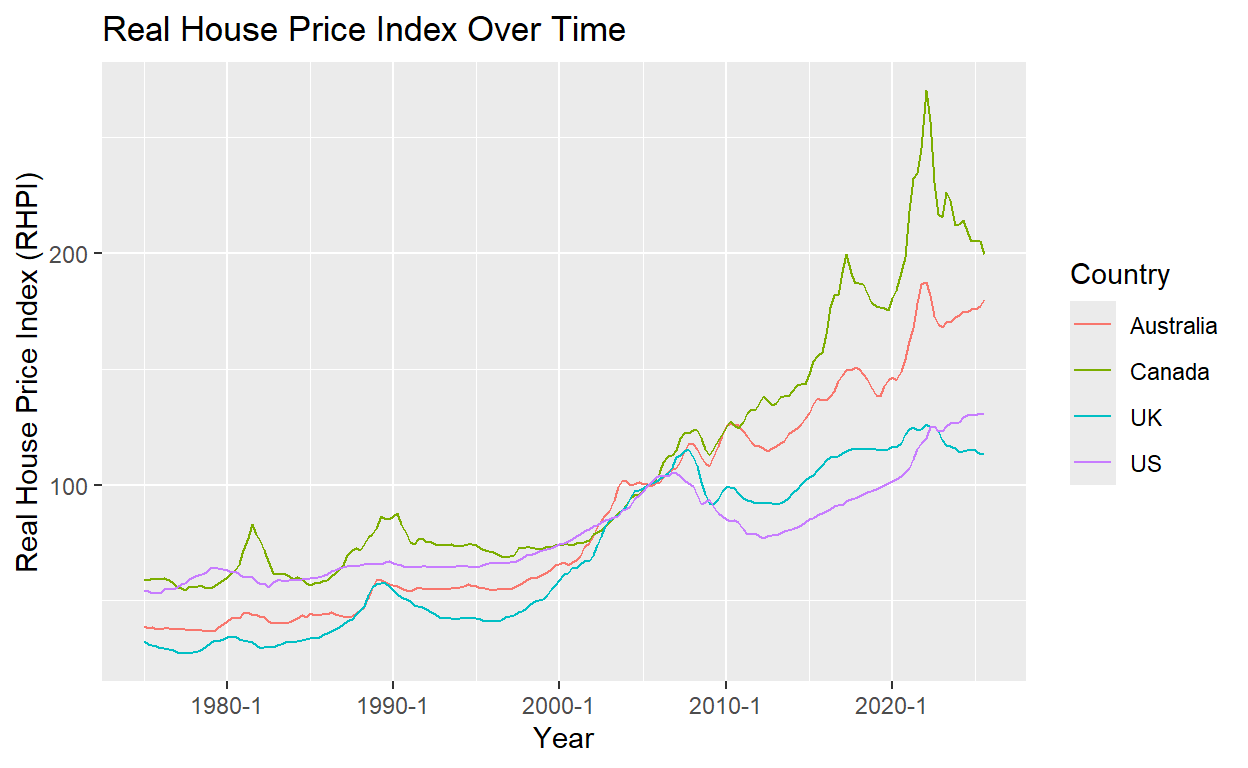
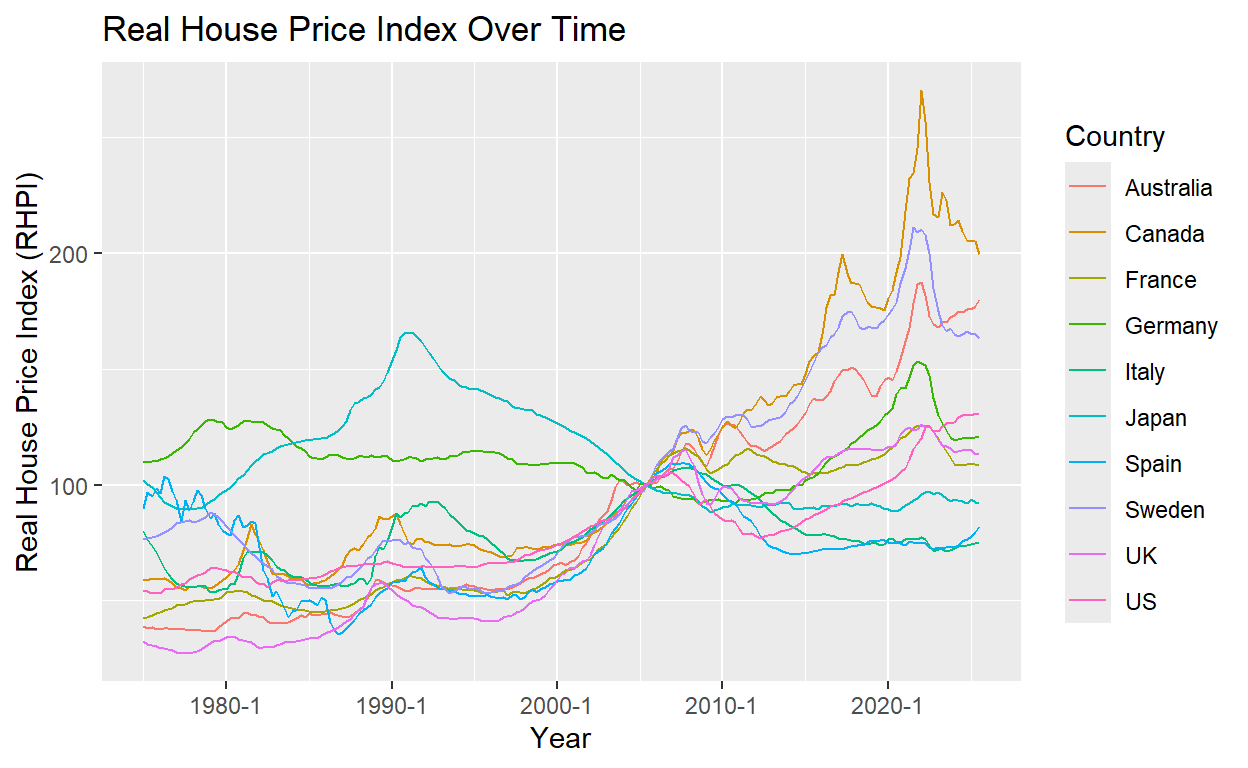
milestone 4

diff --git a/index.html b/index.html
@@ -116,7 +116,7 @@ code span.wa { color: #5e5e5e; font-style: italic; } /* Warning */
   <!--/radix_placeholder_rmarkdown_metadata-->
   
   <script type="text/json" id="radix-resource-manifest">
-  {"type":"character","attributes":{},"value":["data/G-SWA.xlsx","data/hp2503.xlsx","index_files/anchor-4.2.2/anchor.min.js","index_files/bowser-1.9.3/bowser.min.js","index_files/distill-2.2.21/template.v2.js","index_files/figure-html5/unnamed-chunk-6-1.png","index_files/header-attrs-2.17/header-attrs.js","index_files/header-attrs-2.30/header-attrs.js","index_files/jquery-3.6.0/jquery-3.6.0.js","index_files/jquery-3.6.0/jquery-3.6.0.min.js","index_files/jquery-3.6.0/jquery-3.6.0.min.map","index_files/popper-2.6.0/popper.min.js","index_files/tippy-6.2.7/tippy-bundle.umd.min.js","index_files/tippy-6.2.7/tippy-light-border.css","index_files/tippy-6.2.7/tippy.css","index_files/tippy-6.2.7/tippy.umd.min.js","index_files/webcomponents-2.0.0/webcomponents.js"]}
+  {"type":"character","attributes":{},"value":["data/G-SWA.xlsx","data/hp2503.xlsx","index_files/anchor-4.2.2/anchor.min.js","index_files/bowser-1.9.3/bowser.min.js","index_files/distill-2.2.21/template.v2.js","index_files/figure-html5/unnamed-chunk-13-1.png","index_files/figure-html5/unnamed-chunk-6-1.png","index_files/header-attrs-2.17/header-attrs.js","index_files/header-attrs-2.30/header-attrs.js","index_files/jquery-3.6.0/jquery-3.6.0.js","index_files/jquery-3.6.0/jquery-3.6.0.min.js","index_files/jquery-3.6.0/jquery-3.6.0.min.map","index_files/popper-2.6.0/popper.min.js","index_files/tippy-6.2.7/tippy-bundle.umd.min.js","index_files/tippy-6.2.7/tippy-light-border.css","index_files/tippy-6.2.7/tippy.css","index_files/tippy-6.2.7/tippy.umd.min.js","index_files/webcomponents-2.0.0/webcomponents.js"]}
   </script>
   <!--radix_placeholder_navigation_in_header-->
   <!--/radix_placeholder_navigation_in_header-->
@@ -1557,7 +1557,6 @@ code span.wa { color: #5e5e5e; font-style: italic; } /* Warning */
 <pre class="sourceCode r"><code class="sourceCode r"><span><span class='va'>rhpi</span> <span class='op'>&lt;-</span> <span class='fu'><a href='https://readxl.tidyverse.org/reference/read_excel.html'>read_excel</a></span><span class='op'>(</span><span class='st'>"data/hp2503.xlsx"</span>, sheet <span class='op'>=</span> <span class='st'>"RHPI"</span><span class='op'>)</span></span></code></pre>
 </div>
 </div>
-<p>Here I deleted the first row of the data set, as it is an empty row in the excel file, as well as with the blank 28th column. I also renamed the 1st column to “Date”.</p>
 <div class="layout-chunk" data-layout="l-body">
 <div class="sourceCode">
 <pre class="sourceCode r"><code class="sourceCode r"><span><span class='va'>rhpi</span> <span class='op'>&lt;-</span> <span class='va'>rhpi</span><span class='op'>[</span><span class='op'>-</span><span class='fl'>1</span>, <span class='op'>]</span></span>
@@ -1582,8 +1581,8 @@ code span.wa { color: #5e5e5e; font-style: italic; } /* Warning */
 #   Portugal &lt;dbl&gt;, `Aggregate - 2005 Fixed Weights` &lt;chr&gt;,
 #   `Aggregate - Dynamic Weights` &lt;chr&gt;</code></pre>
 </div>
-<p>The date format of this data is usual, and comes in the format of 1975:Q1, 1975:Q2. I saw a package online called “ihpdr” that already did the cleaning of the data, which I think would defeat the purpose of this project, but I noticed that the dates were changed to 1975-01-01, 1975-04-01, etc.</p>
-<p>After prompting AI, it recommended me to use the package “zoo” to work with the unusual time format for myself. The following code is written with the help of AI as I am unfamiliar how to work with zoo or clean data very well. It was also recommended to reshape the data longer (rather than wider as we have done in class)</p>
+<p>Here I deleted the first row of the data set, as it is an empty row in the excel file, as well as with the blank 28th column. I also renamed the 1st column to “Date”.</p>
+<h2 id="changing-the-date-format-of-real-housing-data">Changing the Date Format of Real Housing Data</h2>
 <div class="layout-chunk" data-layout="l-body">
 <div class="sourceCode">
 <pre class="sourceCode r"><code class="sourceCode r"><span><span class='va'>rhpi</span><span class='op'>$</span><span class='va'>Date</span> <span class='op'>&lt;-</span> <span class='fu'><a href='https://rdrr.io/pkg/zoo/man/yearqtr.html'>as.yearqtr</a></span><span class='op'>(</span><span class='va'>rhpi</span><span class='op'>$</span><span class='va'>Date</span>, format <span class='op'>=</span> <span class='st'>"%Y:Q%q"</span><span class='op'>)</span></span>
@@ -1613,7 +1612,7 @@ code span.wa { color: #5e5e5e; font-style: italic; } /* Warning */
 <div class="layout-chunk" data-layout="l-body">
 <div class="sourceCode">
 <pre class="sourceCode r"><code class="sourceCode r"><span><span class='va'>rhpi_longer</span> <span class='op'>&lt;-</span> <span class='va'>rhpi</span> <span class='op'>|&gt;</span></span>
-<span>  <span class='fu'><a href='https://dplyr.tidyverse.org/reference/select.html'>select</a></span><span class='op'>(</span><span class='va'>Date</span>, <span class='va'>US</span>, <span class='va'>UK</span>, <span class='va'>Canada</span>, <span class='va'>Australia</span><span class='op'>)</span> <span class='op'>|&gt;</span> <span class='co'># this can be more countries or all later, but for this milestone, we will just use 4.</span></span>
+<span>  <span class='fu'><a href='https://dplyr.tidyverse.org/reference/select.html'>select</a></span><span class='op'>(</span><span class='va'>Date</span>, <span class='va'>US</span>, <span class='va'>UK</span>, <span class='va'>Australia</span>, <span class='va'>France</span>, <span class='va'>Germany</span>, <span class='va'>Japan</span>, <span class='va'>Italy</span>, <span class='va'>Sweden</span>, <span class='va'>Spain</span>, <span class='va'>Canada</span><span class='op'>)</span> <span class='op'>|&gt;</span> </span>
 <span>  <span class='fu'><a href='https://tidyr.tidyverse.org/reference/pivot_longer.html'>pivot_longer</a></span><span class='op'>(</span></span>
 <span>    cols <span class='op'>=</span> <span class='op'>-</span><span class='va'>Date</span>,</span>
 <span>    names_to <span class='op'>=</span> <span class='st'>"Country"</span>,</span>
@@ -1627,11 +1626,13 @@ code span.wa { color: #5e5e5e; font-style: italic; } /* Warning */
   &lt;yearqtr&gt; &lt;chr&gt;     &lt;dbl&gt;
 1 1975 Q1   US         54.0
 2 1975 Q1   UK         32.2
-3 1975 Q1   Canada     59.2
-4 1975 Q1   Australia  38.8
-5 1975 Q2   US         54.0
-6 1975 Q2   UK         31.2</code></pre>
+3 1975 Q1   Australia  38.8
+4 1975 Q1   France     42.5
+5 1975 Q1   Germany   110. 
+6 1975 Q1   Japan     102. </code></pre>
 </div>
+<p>The date format of this data is usual, and comes in the format of 1975:Q1, 1975:Q2. I saw a package online called “ihpdr” that already did the cleaning of the data, which I think would defeat the purpose of this project, but I noticed that the dates were changed to 1975-01-01, 1975-04-01, etc.</p>
+<p>After prompting AI, it recommended me to use the package “zoo” to work with the unusual time format for myself. The following code is written with the help of AI as I am unfamiliar how to work with zoo or clean data very well. It was also recommended to reshape the data longer (rather than wider as we have done in class)</p>
 <h2 id="data-visualization">Data Visualization</h2>
 <div class="layout-chunk" data-layout="l-body">
 <div class="sourceCode">
@@ -1649,31 +1650,122 @@ code span.wa { color: #5e5e5e; font-style: italic; } /* Warning */
 <p>The real house price index is “seasonally adjusted and re-based” so the year 2005 equals 100 (from the Fed’s Methodological Note). That means all countries being scaled to this reference point allows us to compare how house prices have changed over time across countries. As a result, the lines in the graph move relative to increases/decreases from the base value rather than representing raw price values.</p>
 <p>The graph shows that Canada has seemingly had the greatest increase in real house prices since 2005, and in Milestone 4, I would hope to use working from home data to see any associations between real housing prices and the rate of working from home. My hypothesis is that Canada would have the highest rate compared to the US or the UK, as they have lower real home prices.</p>
 <h2 id="load-work-from-home-data">Load Work From Home Data</h2>
+<p>Source: Aksoy, Cevat Giray, Jose Maria Barrero, Nicholas Bloom, Steven J. Davis, Mathias Dolls and Pablo Zarate, 2022. “Working from Home Around the World,” Brookings Papers on Economic Activity.</p>
 <div class="layout-chunk" data-layout="l-body">
 <div class="sourceCode">
-<pre class="sourceCode r"><code class="sourceCode r"><span><span class='va'>wfh</span> <span class='op'>&lt;-</span> <span class='fu'><a href='https://readxl.tidyverse.org/reference/read_excel.html'>read_excel</a></span><span class='op'>(</span><span class='st'>"data/G-SWA.xlsx"</span><span class='op'>)</span></span>
-<span><span class='fu'><a href='https://rdrr.io/r/utils/head.html'>head</a></span><span class='op'>(</span><span class='va'>wfh</span><span class='op'>)</span></span></code></pre>
+<pre class="sourceCode r"><code class="sourceCode r"><span><span class='va'>wfh</span> <span class='op'>&lt;-</span> <span class='fu'><a href='https://readxl.tidyverse.org/reference/read_excel.html'>read_excel</a></span><span class='op'>(</span><span class='st'>"data/G-SWA.xlsx"</span><span class='op'>)</span></span></code></pre>
 </div>
-<pre><code># A tibble: 6 × 34
-  idnum original_country  wave country     originalcountry regionname
-  &lt;dbl&gt; &lt;chr&gt;            &lt;dbl&gt; &lt;chr&gt;                 &lt;dbl&gt; &lt;chr&gt;     
-1     1 Australia            1 Australia 1              27 Victoria  
-2     2 Australia            1 Australia 1              27 Queensland
-3     3 Australia            1 Australia 1              27 Victoria  
-4     4 Australia            1 Australia 1              27 Victoria  
-5     5 Australia            1 Australia 1              27 Victoria  
-6     6 Australia            1 Australia 1              27 Queensland
-# ℹ 28 more variables: gender &lt;chr&gt;, agegroups &lt;chr&gt;,
-#   education &lt;chr&gt;, industry_job &lt;chr&gt;, age &lt;dbl&gt;, tertiary &lt;dbl&gt;,
-#   graduate &lt;dbl&gt;, married &lt;dbl&gt;, male &lt;dbl&gt;, with_kids &lt;dbl&gt;,
-#   male_with_kids &lt;dbl&gt;, n_work_home &lt;dbl&gt;,
-#   daysemployer_work_home &lt;dbl&gt;, daysemployee_work_home &lt;dbl&gt;,
-#   value_WFH_rawpercent25 &lt;dbl&gt;, commuting_time &lt;dbl&gt;,
-#   WFH_expectations1 &lt;dbl&gt;, WFHperceptions &lt;dbl&gt;, …</code></pre>
 </div>
-<p>This data set has 36k obs. so it will take me a bit to figure out how to use it and filter it the best, but that is for future me! They also seem pretty adamant about citing the source of the data which will be provided here:</p>
-<p>Source: Aksoy, Cevat Giray, Jose Maria Barrero, Nicholas Bloom, Steven J. Davis, Mathias Dolls and Pablo Zarate, 2022. “Working from Home Around the World,” Brookings Papers on Economic Activity.</p>
-<div class="sourceCode" id="cb5"><pre class="sourceCode r distill-force-highlighting-css"><code class="sourceCode r"></code></pre></div>
+<h2 id="adding-year-to-working-from-home-data">Adding Year to Working From Home Data</h2>
+<div class="layout-chunk" data-layout="l-body">
+<div class="sourceCode">
+<pre class="sourceCode r"><code class="sourceCode r"><span><span class='va'>wfh</span> <span class='op'>&lt;-</span> <span class='va'>wfh</span> <span class='op'>|&gt;</span></span>
+<span>  <span class='fu'><a href='https://dplyr.tidyverse.org/reference/mutate.html'>mutate</a></span><span class='op'>(</span>year <span class='op'>=</span> <span class='fu'><a href='https://dplyr.tidyverse.org/reference/case_when.html'>case_when</a></span><span class='op'>(</span></span>
+<span>    <span class='va'>wave</span> <span class='op'>==</span> <span class='fl'>1</span> <span class='op'>~</span> <span class='fl'>2021</span>,</span>
+<span>    <span class='va'>wave</span> <span class='op'>==</span> <span class='fl'>2</span> <span class='op'>~</span> <span class='fl'>2022</span></span>
+<span>  <span class='op'>)</span><span class='op'>)</span></span>
+<span></span>
+<span><span class='fu'><a href='https://rdrr.io/r/base/unique.html'>unique</a></span><span class='op'>(</span><span class='va'>wfh</span><span class='op'>$</span><span class='va'>country</span><span class='op'>)</span></span></code></pre>
+</div>
+<pre><code> [1] &quot;Australia 1&quot;   &quot;Australia 2&quot;   &quot;Austria 2&quot;     &quot;Brazil 2&quot;     
+ [5] &quot;Canada 2&quot;      &quot;China 1&quot;       &quot;China 2&quot;       &quot;Egypt 1&quot;      
+ [9] &quot;France 1&quot;      &quot;France 2&quot;      &quot;Germany 1&quot;     &quot;Germany 2&quot;    
+[13] &quot;Greece 1&quot;      &quot;Greece 2&quot;      &quot;Hungary 1&quot;     &quot;Hungary 2&quot;    
+[17] &quot;India 2&quot;       &quot;Italy 2&quot;       &quot;Japan 2&quot;       &quot;Korea 2&quot;      
+[21] &quot;Malaysia 2&quot;    &quot;Netherlands 1&quot; &quot;Netherlands 2&quot; &quot;Poland 1&quot;     
+[25] &quot;Poland 2&quot;      &quot;Russia 2&quot;      &quot;Serbia 1&quot;      &quot;Singapore 2&quot;  
+[29] &quot;Spain 2&quot;       &quot;Sweden 1&quot;      &quot;Sweden 2&quot;      &quot;Taiwan 2&quot;     
+[33] &quot;Turkey 1&quot;      &quot;Turkey 2&quot;      &quot;UK 1&quot;          &quot;UK 2&quot;         
+[37] &quot;USA 1&quot;         &quot;USA 2&quot;         &quot;Ukraine 1&quot;     &quot;Ukraine 2&quot;    </code></pre>
+</div>
+<h2 id="filtering-countries-down-matching-names">Filtering Countries Down &amp; Matching Names</h2>
+<div class="layout-chunk" data-layout="l-body">
+<div class="sourceCode">
+<pre class="sourceCode r"><code class="sourceCode r"><span><span class='va'>wfh_countries</span> <span class='op'>&lt;-</span> <span class='va'>wfh</span> <span class='op'>|&gt;</span></span>
+<span>  <span class='fu'><a href='https://dplyr.tidyverse.org/reference/filter.html'>filter</a></span><span class='op'>(</span><span class='va'>original_country</span> <span class='op'><a href='https://rdrr.io/r/base/match.html'>%in%</a></span> <span class='fu'><a href='https://rdrr.io/r/base/c.html'>c</a></span><span class='op'>(</span><span class='st'>"Australia"</span>, <span class='st'>"France"</span>, <span class='st'>"Germany"</span>, <span class='st'>"USA"</span>, <span class='st'>"UK"</span>, <span class='st'>"Japan"</span>, <span class='st'>"Italy"</span>, <span class='st'>"Sweden"</span>, <span class='st'>"Spain"</span>, <span class='st'>"Canada"</span><span class='op'>)</span><span class='op'>)</span></span>
+<span></span>
+<span><span class='va'>wfh_countries</span> <span class='op'>&lt;-</span> <span class='va'>wfh_countries</span> <span class='op'>|&gt;</span></span>
+<span>  <span class='fu'><a href='https://dplyr.tidyverse.org/reference/mutate.html'>mutate</a></span><span class='op'>(</span>original_country <span class='op'>=</span> <span class='fu'><a href='https://dplyr.tidyverse.org/reference/case_when.html'>case_when</a></span><span class='op'>(</span></span>
+<span>    <span class='va'>original_country</span> <span class='op'>==</span> <span class='st'>"USA"</span> <span class='op'>~</span> <span class='st'>"US"</span>,</span>
+<span>    <span class='cn'>TRUE</span> <span class='op'>~</span> <span class='va'>original_country</span>                         <span class='co'>## This line will keep all the rest the same</span></span>
+<span>  <span class='op'>)</span><span class='op'>)</span></span></code></pre>
+</div>
+</div>
+<h2 id="average-days-working-from-home-by-year">Average Days Working From Home by Year</h2>
+<div class="layout-chunk" data-layout="l-body">
+<div class="sourceCode">
+<pre class="sourceCode r"><code class="sourceCode r"><span><span class='va'>wfh_countries_mean</span> <span class='op'>&lt;-</span> <span class='va'>wfh_countries</span> <span class='op'>|&gt;</span></span>
+<span>  <span class='fu'><a href='https://dplyr.tidyverse.org/reference/group_by.html'>group_by</a></span><span class='op'>(</span><span class='va'>original_country</span>, <span class='va'>year</span><span class='op'>)</span> <span class='op'>|&gt;</span></span>
+<span>  <span class='fu'><a href='https://dplyr.tidyverse.org/reference/summarise.html'>summarize</a></span><span class='op'>(</span></span>
+<span>    wfh_mean <span class='op'>=</span> <span class='fu'><a href='https://rdrr.io/r/base/mean.html'>mean</a></span><span class='op'>(</span><span class='va'>n_work_home</span>, na.rm <span class='op'>=</span> <span class='cn'>T</span><span class='op'>)</span>,</span>
+<span>   .groups <span class='op'>=</span> <span class='st'>"drop"</span> <span class='co'>## Tibble is still grouped by original_country otherwise </span></span>
+<span>   <span class='op'>)</span></span></code></pre>
+</div>
+</div>
+<h2 id="creating-a-yearly-real-housing-price-to-compare-with-wfh-data-then-filtering-by-202122">Creating a yearly Real Housing Price, to compare with WFH data, then filtering by 2021/22</h2>
+<div class="layout-chunk" data-layout="l-body">
+<div class="sourceCode">
+<pre class="sourceCode r"><code class="sourceCode r"><span><span class='va'>rhpi_yearly</span> <span class='op'>&lt;-</span> <span class='va'>rhpi_longer</span> <span class='op'>|&gt;</span></span>
+<span>  <span class='fu'><a href='https://dplyr.tidyverse.org/reference/mutate.html'>mutate</a></span><span class='op'>(</span>year <span class='op'>=</span> <span class='fu'><a href='https://rdrr.io/r/base/numeric.html'>as.numeric</a></span><span class='op'>(</span><span class='fu'><a href='https://rdrr.io/r/base/format.html'>format</a></span><span class='op'>(</span><span class='va'>Date</span>, <span class='st'>"%Y"</span><span class='op'>)</span><span class='op'>)</span><span class='op'>)</span> <span class='op'>|&gt;</span> <span class='co'># Had to look up how to do this, don't believe it's Zoo, but base R</span></span>
+<span>  <span class='fu'><a href='https://dplyr.tidyverse.org/reference/group_by.html'>group_by</a></span><span class='op'>(</span><span class='va'>Country</span>, <span class='va'>year</span><span class='op'>)</span> <span class='op'>|&gt;</span></span>
+<span>  <span class='fu'><a href='https://dplyr.tidyverse.org/reference/summarise.html'>summarize</a></span><span class='op'>(</span></span>
+<span>    RHPI <span class='op'>=</span> <span class='fu'><a href='https://rdrr.io/r/base/mean.html'>mean</a></span><span class='op'>(</span><span class='va'>RHPI</span>, na.rm <span class='op'>=</span> <span class='cn'>T</span>,</span>
+<span>    .groups <span class='op'>=</span> <span class='st'>"drop"</span></span>
+<span>    <span class='op'>)</span><span class='op'>)</span> <span class='op'>|&gt;</span></span>
+<span>  <span class='fu'><a href='https://dplyr.tidyverse.org/reference/filter.html'>filter</a></span><span class='op'>(</span><span class='va'>year</span> <span class='op'><a href='https://rdrr.io/r/base/match.html'>%in%</a></span> <span class='fu'><a href='https://rdrr.io/r/base/c.html'>c</a></span><span class='op'>(</span><span class='fl'>2021</span>, <span class='fl'>2022</span><span class='op'>)</span><span class='op'>)</span></span></code></pre>
+</div>
+</div>
+<h2 id="merge-the-data">MERGE THE DATA!</h2>
+<div class="layout-chunk" data-layout="l-body">
+<div class="sourceCode">
+<pre class="sourceCode r"><code class="sourceCode r"><span><span class='va'>merged_data</span> <span class='op'>&lt;-</span> <span class='va'>rhpi_yearly</span> <span class='op'>|&gt;</span></span>
+<span>  <span class='fu'><a href='https://dplyr.tidyverse.org/reference/mutate-joins.html'>inner_join</a></span><span class='op'>(</span><span class='va'>wfh_countries_mean</span>, by <span class='op'>=</span> <span class='fu'><a href='https://rdrr.io/r/base/c.html'>c</a></span><span class='op'>(</span><span class='st'>"Country"</span> <span class='op'>=</span> <span class='st'>"original_country"</span>, <span class='st'>"year"</span> <span class='op'>=</span> <span class='st'>"year"</span><span class='op'>)</span><span class='op'>)</span></span>
+<span></span>
+<span><span class='va'>merged_data</span></span></code></pre>
+</div>
+<pre><code># A tibble: 16 × 4
+# Groups:   Country [10]
+   Country    year  RHPI wfh_mean
+   &lt;chr&gt;     &lt;dbl&gt; &lt;dbl&gt;    &lt;dbl&gt;
+ 1 Australia  2021 174.      2.39
+ 2 Australia  2022 178.      2.38
+ 3 Canada     2022 244.      2.38
+ 4 France     2021 123.      1.18
+ 5 France     2022 125.      1.37
+ 6 Germany    2021 148.      1.47
+ 7 Germany    2022 147.      1.27
+ 8 Italy      2022  74.6     1.67
+ 9 Japan      2022  96.5     1.17
+10 Spain      2022  73.8     1.61
+11 Sweden     2021 204.      1.64
+12 Sweden     2022 201.      1.49
+13 UK         2021 124.      2.21
+14 UK         2022 125.      2.17
+15 US         2021 113.      1.73
+16 US         2022 123.      1.55</code></pre>
+</div>
+<h2 id="quick-visualization">Quick Visualization</h2>
+<div class="layout-chunk" data-layout="l-body">
+<div class="sourceCode">
+<pre class="sourceCode r"><code class="sourceCode r"><span><span class='fu'><a href='https://ggplot2.tidyverse.org/reference/ggplot.html'>ggplot</a></span><span class='op'>(</span><span class='va'>merged_data</span>, <span class='fu'><a href='https://ggplot2.tidyverse.org/reference/aes.html'>aes</a></span><span class='op'>(</span>x <span class='op'>=</span> <span class='va'>wfh_mean</span>, y <span class='op'>=</span> <span class='va'>RHPI</span>, color <span class='op'>=</span> <span class='va'>Country</span><span class='op'>)</span><span class='op'>)</span> <span class='op'>+</span></span>
+<span>  <span class='fu'><a href='https://ggplot2.tidyverse.org/reference/geom_point.html'>geom_point</a></span><span class='op'>(</span>size <span class='op'>=</span> <span class='fl'>1.9</span><span class='op'>)</span> <span class='op'>+</span></span>
+<span>  <span class='fu'><a href='https://ggplot2.tidyverse.org/reference/geom_path.html'>geom_path</a></span><span class='op'>(</span><span class='fu'><a href='https://ggplot2.tidyverse.org/reference/aes.html'>aes</a></span><span class='op'>(</span>group <span class='op'>=</span> <span class='va'>Country</span><span class='op'>)</span>, </span>
+<span>arrow <span class='op'>=</span> <span class='fu'><a href='https://rdrr.io/r/grid/arrow.html'>arrow</a></span><span class='op'>(</span>type <span class='op'>=</span> <span class='st'>"open"</span>, length <span class='op'>=</span> <span class='fu'><a href='https://rdrr.io/r/grid/unit.html'>unit</a></span><span class='op'>(</span><span class='fl'>0.09</span>, <span class='st'>"inches"</span><span class='op'>)</span><span class='op'>)</span><span class='op'>)</span> <span class='op'>+</span></span>
+<span>  <span class='fu'><a href='https://ggplot2.tidyverse.org/reference/geom_smooth.html'>geom_smooth</a></span><span class='op'>(</span>method <span class='op'>=</span> <span class='st'>"lm"</span>, se <span class='op'>=</span> <span class='cn'>T</span>, color <span class='op'>=</span> <span class='st'>"black"</span>, alpha <span class='op'>=</span> <span class='fl'>0.1</span><span class='op'>)</span> <span class='op'>+</span></span>
+<span>  <span class='fu'><a href='https://ggplot2.tidyverse.org/reference/guides.html'>guides</a></span><span class='op'>(</span>color <span class='op'>=</span> <span class='fu'><a href='https://ggplot2.tidyverse.org/reference/guide_legend.html'>guide_legend</a></span><span class='op'>(</span>override.aes <span class='op'>=</span> <span class='fu'><a href='https://rdrr.io/r/base/list.html'>list</a></span><span class='op'>(</span>linetype <span class='op'>=</span> <span class='fl'>0</span><span class='op'>)</span><span class='op'>)</span><span class='op'>)</span> <span class='op'>+</span> <span class='co'>## The arrows were being added to the country guide on the right, this is to prevent that. </span></span>
+<span>  <span class='fu'><a href='https://ggplot2.tidyverse.org/reference/labs.html'>labs</a></span><span class='op'>(</span></span>
+<span>    title <span class='op'>=</span> <span class='st'>"WFH vs Real Housing Prices (2021-2022)"</span>,</span>
+<span>    x <span class='op'>=</span> <span class='st'>"Average Days Worked From Home in a Week"</span>,</span>
+<span>    y <span class='op'>=</span> <span class='st'>"Real Housing Price Index (2005 Base Year)"</span>,</span>
+<span>    caption <span class='op'>=</span> <span class='st'>"Data: US Dallas Fed &amp; Brookings WFH Data"</span></span>
+<span>  <span class='op'>)</span></span></code></pre>
+</div>
+<p><img src="index_files/figure-html5/unnamed-chunk-13-1.png" alt="" width="624" /></p>
+</div>
+<p>The graph shows the relationship between the average days worked from home and the real housing price index across countries in 2021 and 2022. Each country is represented by one or two points, depending on available survey data. This allows for cross-country differences and yearly changes for some of the countries.</p>
+<p>There appears to be a positive relationship between working from home and housing prices, as indicated by the line of best fit, countries with higher levels of remote work like Canada and Australia tend to have higher real housing prices than the lower countries like Japan. However, there are some cases where from 2021 to 2022, housing prices increased despite working from home decreasing, showing that there are other factors influencing housing prices as well.</p>
+<p>The analysis is limited and a relatively short time frame. The results should be interpreted as descriptive rather than causal.</p>
+<div class="sourceCode" id="cb6"><pre class="sourceCode r distill-force-highlighting-css"><code class="sourceCode r"></code></pre></div>
 <!--radix_placeholder_article_footer-->
 <!--/radix_placeholder_article_footer-->
 </div>
